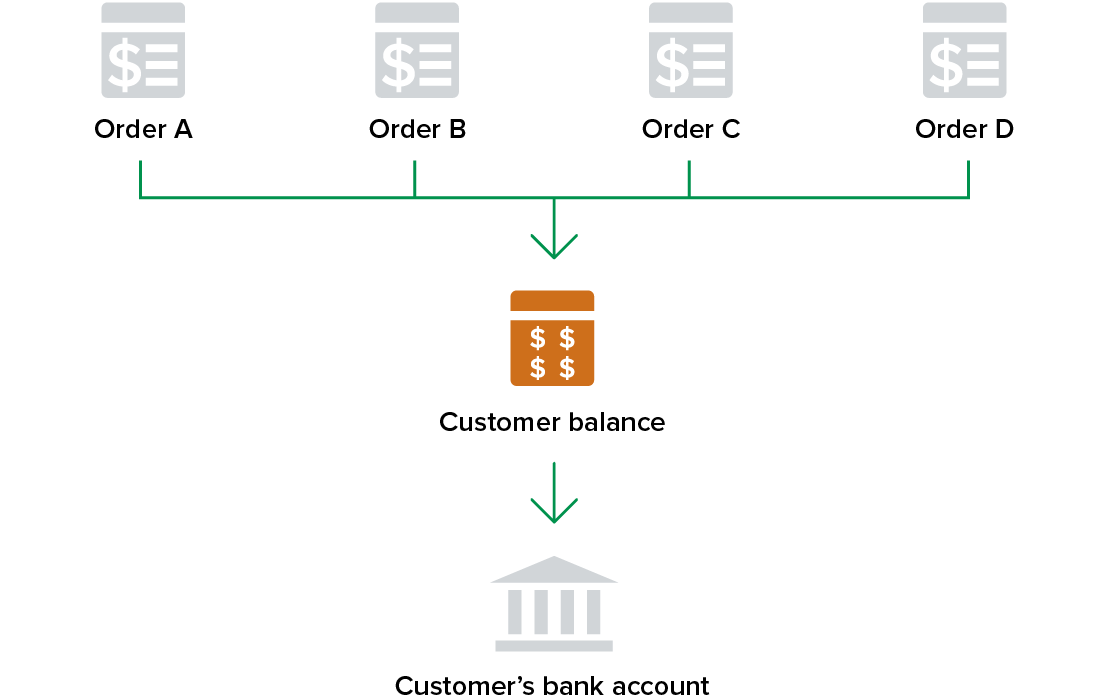
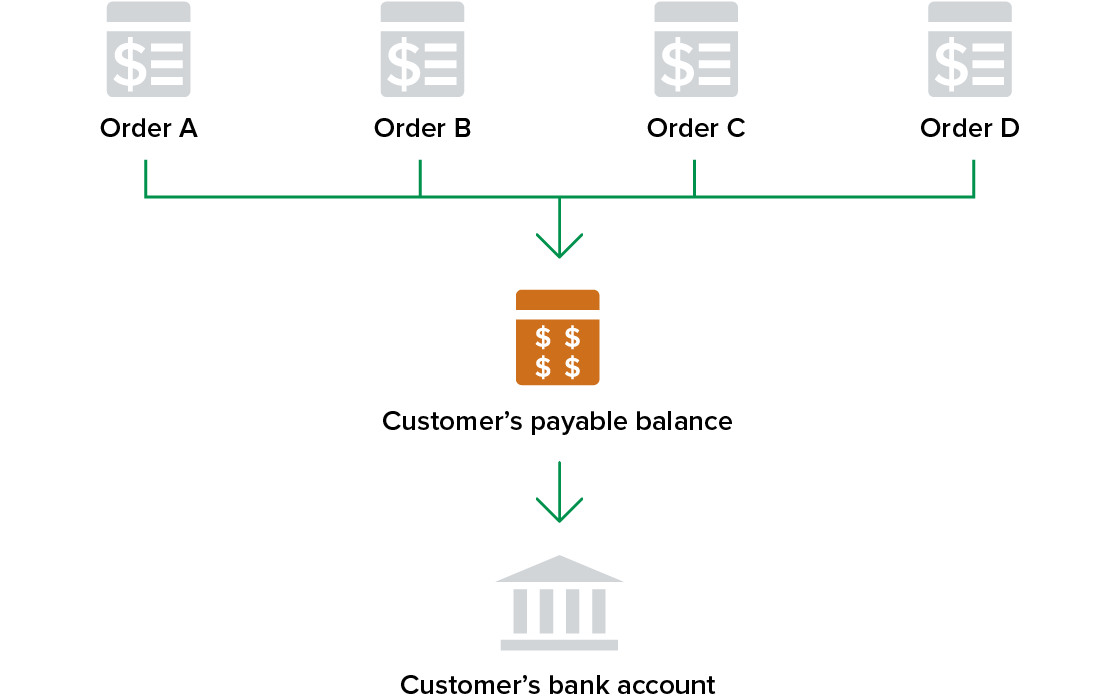
Update bulk credit credit and text

diff --git a/contents/account-reconciliation.md b/contents/account-reconciliation.md
@@ -35,7 +35,7 @@ features:
       Orders also offer additional safeguards for disputes. Once a dispute is filed, the refund function will be disabled to prevent you from unknowingly refunding the buyer as the dispute process is pending.
     class: account-reconciliation-losses
   - title: Combine payouts from multiple orders
-    body: Balanced allows you to issue one payout to a merchant with multiple orders waiting to be settled. Each customer has a payable account which can carry a stored balance. Simply credit the funds from the various orders into your merchant’s balance. Then issue one payout from the balance to your merchant’s bank account.
+    body: Balanced allows you to issue one payout to a merchant with multiple orders waiting to be settled. Each customer has a payable account which can carry a stored balance. Simply credit the funds from the various orders into your merchant’s balance. Then issue a settlement from the balance to your merchant’s bank account.
     class: account-reconciliation-bulk-crediting
     inDevelopment: true
   - title: Track orders from the Balanced Dashboard
